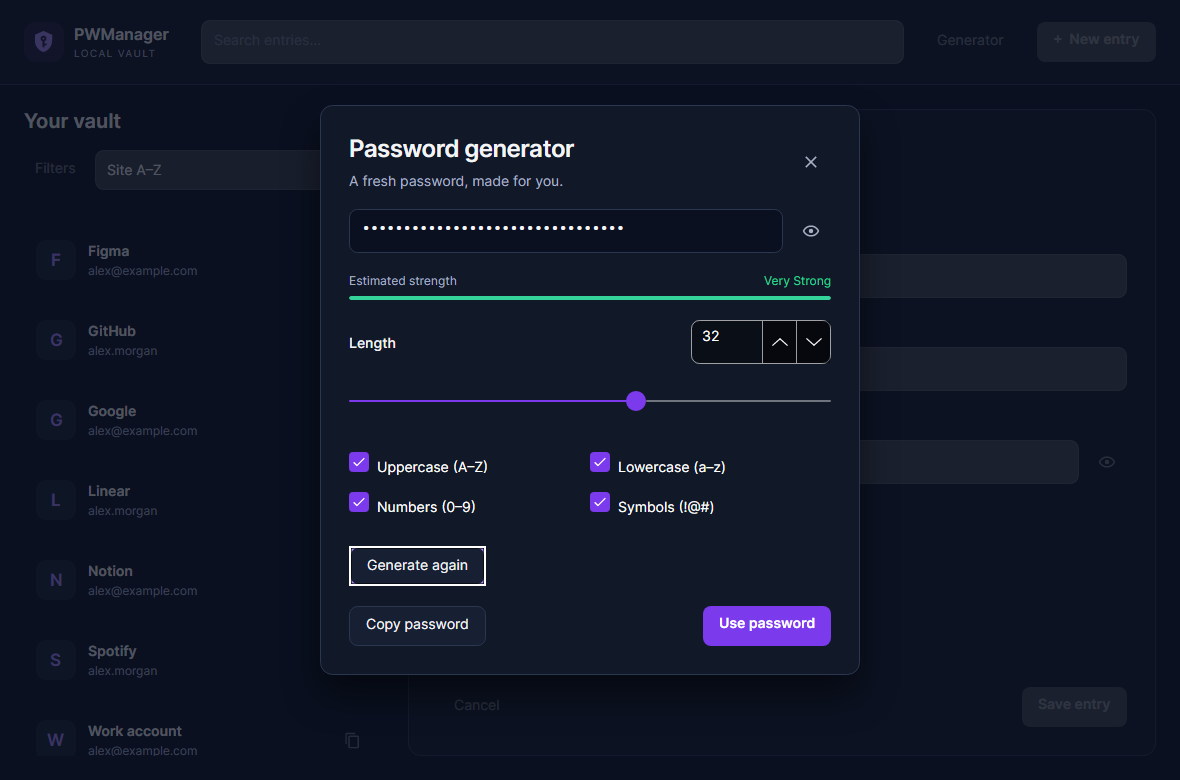
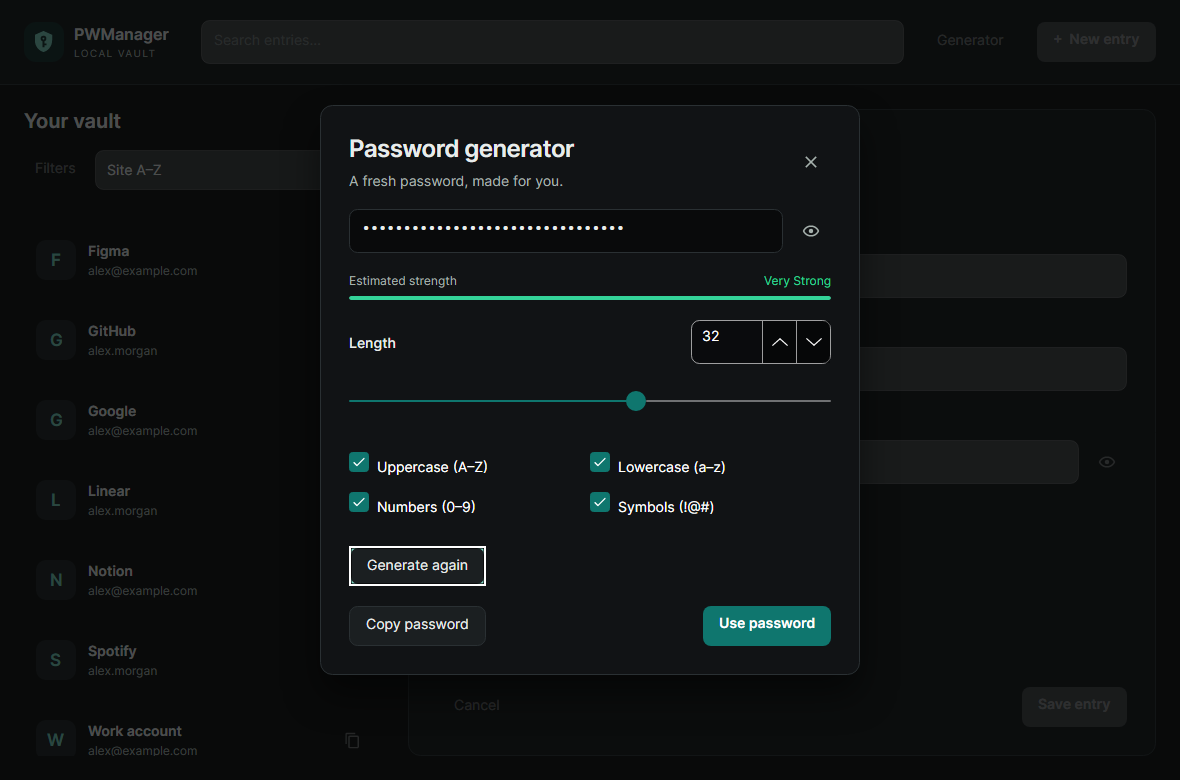
feat: changes in ui colors

diff --git a/README.md b/README.md
@@ -6,7 +6,7 @@ A personal desktop password manager built with .NET 10 and Avalonia UI. Keep cre
 
 ## Features
 
-- Dark navy and violet theme, with readable text, visible keyboard focus, and labeled actions.
+- Neutral black and teal theme, with readable text, visible keyboard focus, and labeled actions.
 - Search across site and login, plus optional site/login filters.
 - Sort by site, login, creation date, or last update, in either direction.
 - Virtualized entry list with quick password copy and a separate details pane.
@@ -154,17 +154,19 @@ The root `.editorconfig` defines indentation, braces, and line breaks. Run `dotn
 
 | Role | Color |
 |---|---|
-| Canvas | `#0B1020` |
-| Surface | `#111827` |
-| Raised surface | `#172033` |
-| Separator | `#2B3750` |
-| Primary text | `#F3F4F6` |
-| Secondary text | `#A7B0C4` |
-| Primary action | `#7C3AED` |
-| Focus/accent text | `#A78BFA` |
+| Canvas | `#090A0B` |
+| Surface | `#111315` |
+| Raised surface | `#1B1F21` |
+| Separator | `#2A3033` |
+| Primary text | `#E8ECEB` |
+| Secondary text | `#A6B1AD` |
+| Primary action | `#0F766E` |
+| Primary action hover/pressed | `#0D655F` |
+| Selected surface | `#102B28` |
+| Focus/accent text | `#7DD3C0` |
 | Success | `#34D399` |
 | Error/destructive action | `#FB7185` |
 
-Colors and control styles are shared resources. Text contrast targets at least 4.5:1 for normal text. This release provides an English dark interface.
+The neutral black palette uses near-black backgrounds, charcoal panels and fields, and subtle neutral borders. Deep teal highlights primary actions and selection; muted mint marks keyboard focus and small accents. Colors, control styles, and modal overlays are shared resources. White text on the primary teal button has approximately 5.47:1 contrast; normal text targets at least 4.5:1. This release provides an English dark interface.
 
 ![Unlock your vault](docs/screenshots/unlock.png)
